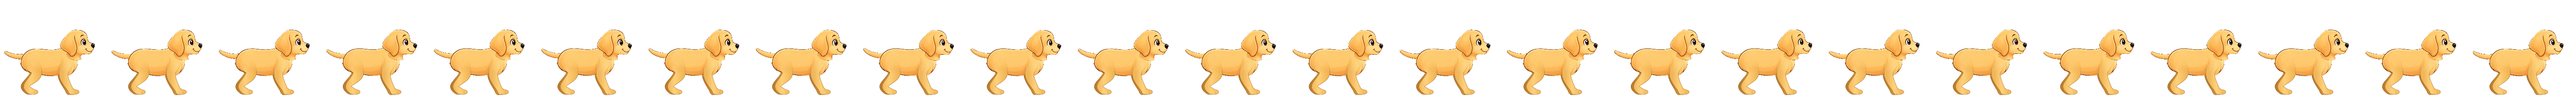
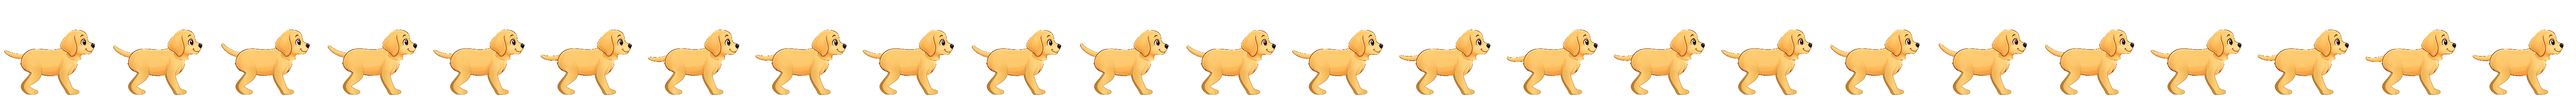
Pet dogs directly and animate Labrador tail wagging while standing or seated

diff --git a/js/game.js b/js/game.js
@@ -970,7 +970,7 @@ function startGame() {
     let activeWalkSrc = '';
     const decodedSheets = new Map();
     function sheetsReady() {
-      return ['walk', 'idle', 'sitdown', 'sit', 'standup', 'reaction'].map(function (state) {
+      return ['walk', 'idle', 'sitdown', 'sit', 'standup', 'reaction', 'sitReaction'].map(function (state) {
         const src = actor.dataset[state + 'Src'];
         if (!src) return true;
         if (!decodedSheets.has(src)) {
@@ -1065,7 +1065,7 @@ function startGame() {
 
     function paintSheetFrame(frames) {
       if (!sprite) return;
-      const src = actor.dataset[sheet + 'Src'];
+      const src = actor.dataset[(sheet === 'sit' && performance.now() < reactionUntil && actor.dataset.sitReactionSrc ? 'sitReaction' : sheet) + 'Src'];
       if (src && sprite.dataset.sheetSrc !== src) {
         sprite.style.backgroundImage = 'url("' + src + '")';
         sprite.dataset.sheetSrc = src;
@@ -1228,7 +1228,7 @@ function startGame() {
     }
 
     function enterReaction(now) {
-      reactionUntil = now + 720;
+      reactionUntil = now + 1200;
       if (mode === 'reaction') return;
       mode = 'reaction';
       pendingDir = null;
@@ -1347,7 +1347,8 @@ function startGame() {
     }
 
     function onReact() {
-      // Do not replace a seated/transition pose with a standing reaction.
+      // Seated petting uses the same pose with only the tail animated.
+      if (mode === 'sit' && !prefersReduced()) { reactionUntil = performance.now() + 1200; modeUntil = Math.max(modeUntil, reactionUntil); }
       if (!prefersReduced() && (mode === 'walk' || mode === 'idle' || mode === 'reaction')) enterReaction(performance.now());
     }
     stage.addEventListener('dog:react', onReact);
@@ -1415,6 +1416,7 @@ function startGame() {
       actor.dataset.sitdownSrc = sitdownSrc;
       actor.dataset.standupSrc = standupSrc;
       actor.dataset.reactionSrc = reactionSrc;
+      actor.dataset.sitReactionSrc = breed.sitReactionSrc || '';
       actor.dataset.frameW = String(breed.frameW || 192);
       actor.dataset.frameH = String(breed.frameH || 192);
       actor.dataset.walkFrames = String(breed.walkFrames || 8);
@@ -3060,6 +3062,8 @@ function startGame() {
 
   function mineClick(ev) {
     if (!ready || destroyed) return;
+    const hint = $('#hint-first');
+    if (hint) hint.hidden = true;
     updateCombo();
     clampEnergy();
     const power = getClickPower() * state.pendingClickMult;
@@ -3086,7 +3090,8 @@ function startGame() {
     }
     let x = window.innerWidth / 2;
     let y = window.innerHeight * 0.35;
-    if (ev && typeof ev.clientX === 'number') { x = ev.clientX; y = ev.clientY - 20; }
+    const dog = $('#dogActor');
+    if (dog) { const rect = dog.getBoundingClientRect(); x = rect.left + rect.width / 2; y = rect.top + 24; }
     const comboTag = state.combo >= 1.2 ? ' x' + Math.min(COMBO_MAX, state.combo).toFixed(1) : '';
     spawnPopup(x, y, '+' + fmt(power) + ' 🦴' + comboTag);
     spawnClickFx(x, y + 10);
@@ -3657,7 +3662,7 @@ function startGame() {
 
     if (destroyed) return;
 
-    listen($('#mine-btn'), 'click', mineClick);
+    listen($('#dogActor'), 'click', mineClick);
     listen($('#quests'), 'click', onQuestsClick);
     listen($('#btn-ad'), 'click', onRewarded);
     listen($('#btn-save'), 'click', manualSave);
@@ -3919,7 +3924,7 @@ function startGame() {
     }
     if (firstHint) {
       const hideHint = function () { firstHint.hidden = true; };
-      listen($('#mine-btn'), 'click', hideHint, { once: true });
+      listen($('#dogActor'), 'click', hideHint, { once: true });
     }
 
     function onVisibility() {

diff --git a/tests/dog-animation.test.js b/tests/dog-animation.test.js
@@ -6,7 +6,7 @@ let next,now=1;const handlers={};
 const sprite={style:{},dataset:{},clientWidth:96};
 const bg={clientHeight:330,dataset:{walkLeft:.30,walkRight:.80,sourceWidth:1536,sourceHeight:1024}};
 const images=[];class FakeImage{set src(value){this.url=value;images.push(this);this.onload()}}
-const actor={style:{},clientWidth:96,dataset:{walkStride:104/256,walkDuration:1.2,loopFps:20,transitionFps:20},classList:{add(){},remove(){}}};
+const actor={style:{},clientWidth:96,dataset:{sitReactionSrc:"sitReaction.png",walkStride:104/256,walkDuration:1.2,loopFps:20,transitionFps:20},classList:{add(){},remove(){}}};
 for(const state of ['walk','idle','sitdown','sit','standup','reaction']){actor.dataset[state+'Src']=state+'.png';actor.dataset[state+'Frames']=state==='sitdown'||state==='standup'?12:24}
 const stage={clientWidth:360,clientHeight:260,querySelector(){return null},addEventListener(k,v){handlers[k]=v},removeEventListener(k){delete handlers[k]}};
 const sandbox={Image:FakeImage,getBreed:()=>Object.fromEntries(Object.entries(actor.dataset)),$: s=>({'#dogActor':actor,'#dogSprite':sprite,'#mine-btn':stage,'#yard-bg':bg}[s]),window:{matchMedia:()=>({matches:false})},document:{visibilityState:'visible'},performance:{now:()=>now},destroyed:false,requestAnimationFrame:f=>{next=f;return 1},cancelAnimationFrame(){},Math,Number,String};
@@ -17,6 +17,7 @@ for(let i=0;i<160;i++){tick();const x=parseFloat(actor.style.transform.match(/\(
 const modes=new Set();for(let i=0;i<800;i++){tick();modes.add(actor.dataset.mode);const before=JSON.stringify(sprite.style);sandbox.applyBreedArt();assert.equal(JSON.stringify(sprite.style),before,'UI refresh does not reset or replace animation frame');assert(sprite.style.backgroundImage.includes(actor.dataset.mode==='approach'?'walk':actor.dataset.mode),'correct sheet for each state')}
 for(const state of ['walk','sitdown','sit','standup','idle'])assert(modes.has(state),'visits '+state);
 for(let guard=0;actor.dataset.mode!=='sit'&&guard<600;guard++)tick();assert.equal(actor.dataset.mode,'sit');handlers['dog:react']();assert.equal(actor.dataset.mode,'sit','click does not pop seated dog to standing');
+tick();assert(sprite.style.backgroundImage.includes('sitReaction'),'seated petting wags tail without changing pose');
 actor.dataset.walkSrc='new-breed.png';tick();assert.equal(actor.dataset.mode,'walk');assert(sprite.style.backgroundImage.includes('new-breed'),'breed switch resets sheet');
 sandbox.document.visibilityState='hidden';const held=actor.style.transform;tick(3000);assert.equal(actor.style.transform,held);sandbox.document.visibilityState='visible';tick();assert.equal(actor.style.transform,held,'no catch-up jump after hidden tab');
 // Resizing or changing scenery clamps all states, including seated states.
@@ -27,5 +28,5 @@ for(const width of [280,320,360,600])for(const area of [[.30,.80],[.28,.72],[.32
  assert(x+96<=crop+area[1]*scaled-5.8,'whole dog clears right decorations');
  assert(x>=0&&x+96<=width,'dog remains on screen after resize');
 }
-assert.equal(images.length,7,'six sheets preload once; only changed sheet reloads');
+assert.equal(images.length,8,'all sheets preload once; only changed sheet reloads');
 sandbox.window.matchMedia=()=>({matches:true});tick();assert.equal(actor.dataset.mode,'sit');assert.equal(sprite.style.backgroundPosition,'0px 0');sandbox.dog.stop();console.log('dog animation: stride, bounds, states, breed switch, seated click, tab pause, reduced motion OK');

diff --git a/index.html b/index.html
@@ -60,18 +60,17 @@
 
   <section class="mine-area" id="mine-area">
     <div class="yard-bg" id="yard-bg" aria-hidden="true"></div>
-    <button type="button" id="mine-btn" class="yard-stage" aria-label="Почесать пёсика" data-i18n-aria="pet_aria">
+    <div id="mine-btn" class="yard-stage">
       <div class="kennel" aria-hidden="true">
         <img id="kennelArt" class="kennel-art" src="assets/kennel.webp" alt="" decoding="async" />
         <img id="friendArt" class="friend-art friend-on-roof" alt="" hidden />
       </div>
-      <div class="dog-actor" id="dogActor" data-mode="walk">
+      <button type="button" class="dog-actor" id="dogActor" data-mode="walk" aria-label="Погладить собачку" data-i18n-aria="pet_aria">
         <div id="dogSprite" class="dog-sprite" aria-hidden="true"></div>
         <img id="dogArt" class="dog-art" alt="" hidden />
-      </div>
-      <span class="mine-label" data-i18n="pet_btn">ПОЧЕСАТЬ</span>
-    </button>
-    <p class="hint-first" id="hint-first" hidden data-i18n="first_hint">Нажмите на пёсика — или пробел</p>
+      </button>
+    </div>
+    <p class="hint-first" id="hint-first" hidden data-i18n="first_hint">Нажми на собачку, чтобы погладить · или пробел</p>
     <div class="energy-wrap" id="energy-wrap" aria-label="Энергия пса" data-i18n-aria="energy_aria">
       <div class="energy-top"><span data-i18n="energy">Энергия</span><span id="energy-label">100 / 100</span></div>
       <div class="energy-bar"><span id="energy-fill" style="width:100%"></span></div>

diff --git a/js/i18n.js b/js/i18n.js
@@ -24,9 +24,9 @@
       medals: 'Медальки выставки',
       boost: 'x2 буст',
       item: 'Предмет',
-      pet_aria: 'Почесать пёсика',
+      pet_aria: 'Погладить собачку',
       pet_btn: 'ПОЧЕСАТЬ',
-      first_hint: 'Нажмите на пёсика — или пробел',
+      first_hint: 'Нажми на собачку, чтобы погладить · или пробел',
       energy: 'Энергия',
       energy_aria: 'Энергия пса',
       joy: 'Радость x2 · 10с',
@@ -352,7 +352,7 @@
       save_loaded: 'Сохранение загружено',
       file_bad: 'Файл не подошёл',
       reset_q: 'Сбросить весь прогресс? Это нельзя отменить.',
-      pet_hint_toast: 'Почешите пёсика — косточки сами посыплются',
+      pet_hint_toast: 'Погладь собачку — получи косточки',
       back_yard: 'Снова в дворике',
       per_sec: '/с',
       ad_confirm: 'Локальный режим — без видео.\nПолучить двойные косточки (x2 почесушка + автодоход 60 с)?',

diff --git a/css/style.css b/css/style.css
@@ -2147,3 +2147,9 @@ header h1 {
 }
 .confirm-card h3 { color: var(--accent); margin-bottom: 8px; }
 
+
+/* Only the dog is interactive; the invisible margin helps touch input. */
+#mine-btn.yard-stage { cursor: default; }
+#dogActor { padding: 0; border: 0; background: transparent; border-radius: 18px; cursor: pointer; pointer-events: auto; overflow: visible; touch-action: manipulation; }
+#dogActor::before { content: ''; position: absolute; inset: -12px; }
+#dogActor:focus-visible { outline: 3px solid #876030; outline-offset: 5px; }

diff --git a/js/content.js b/js/content.js
@@ -204,6 +204,7 @@ Object.assign(BREEDS.lab, { walkFrames: 24, idleFrames: 24, sitdownFrames: 12,
 ['walk', 'idle', 'sitdown', 'sit', 'standup', 'reaction'].forEach(function (state) {
   BREEDS.lab[state + 'Src'] = 'assets/lab-v5/' + state + '.webp';
 });
+BREEDS.lab.sitReactionSrc = 'assets/lab-v5/sitReaction.webp';
 const BREED_COUNT = Object.keys(BREEDS).length;
 
 const YARDS = {
